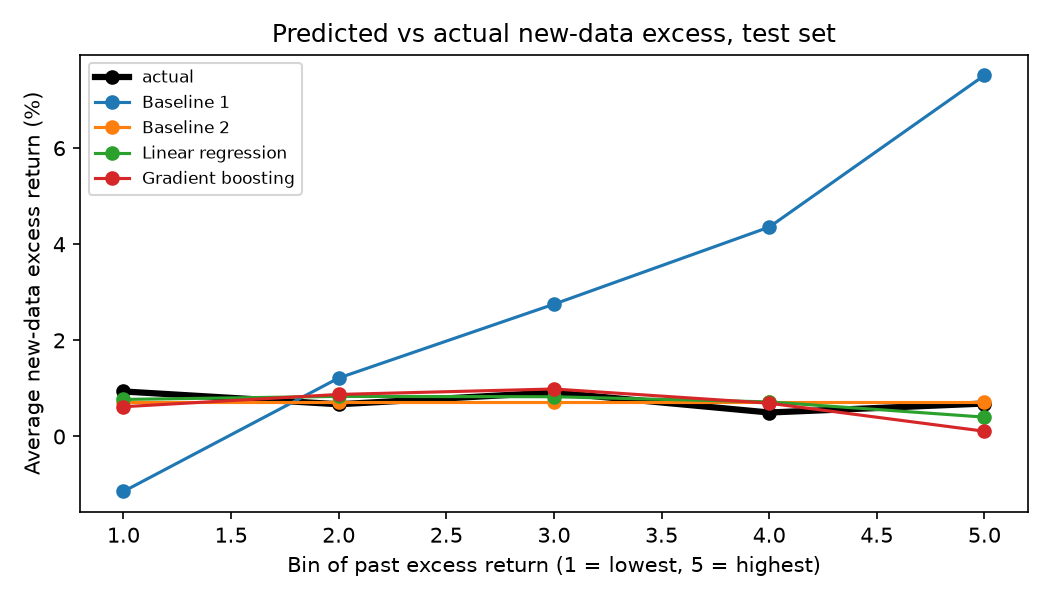
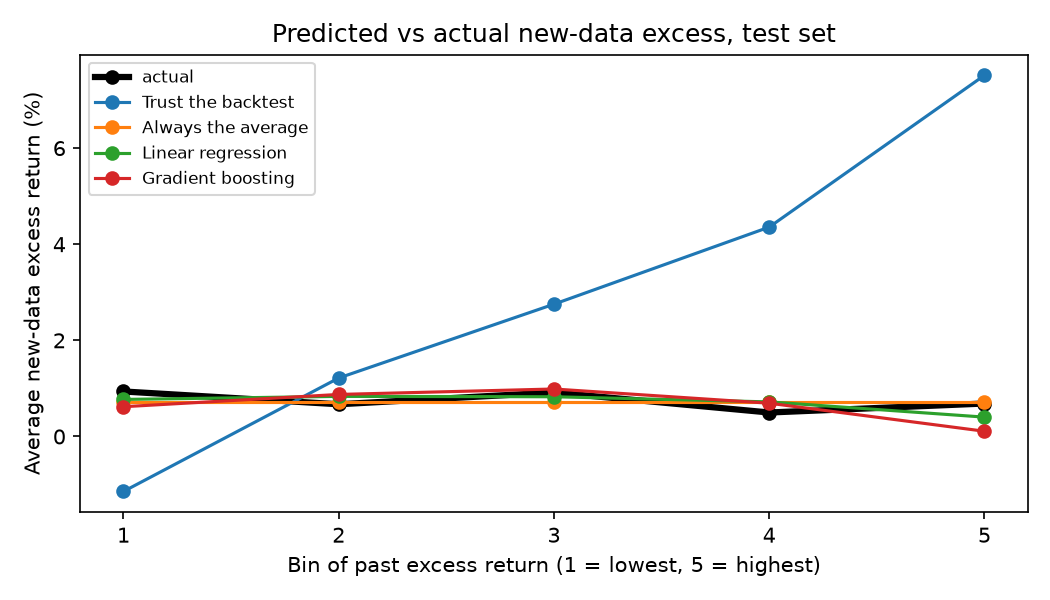
Add Gradio demo and polish charts

diff --git a/src/app.py b/src/app.py
@@ -1,0 +1,142 @@
+"""Strategy Reality Check: a small local demo. Run with:  python src/app.py
+
+Pick a historical window (15 real years: 10 'past' + 5 'new'), a momentum strategy, and how many
+strategies you tried before picking it. The app shows how it did in the past, what 'winners like
+yours' did afterwards in simulated no-skill markets, and (on request) what really happened next.
+"""
+import numpy as np
+import pandas as pd
+import matplotlib
+matplotlib.use("Agg")  # draw charts without opening a window
+import matplotlib.pyplot as plt
+import gradio as gr
+from sklearn.linear_model import LinearRegression
+from backtest import SECTORS, monthly_returns, backtest        # same backtest as everywhere else
+from simulate import momentum, excess_and_te, run_strategies, N_PAST   # same strategy + excess definitions
+
+FEATURES = ["K", "past_excess", "past_tracking_error", "past_excess_over_te", "L", "top_k"]
+DISCLAIMER = ("*Prototype, not financial advice. Simulated markets reshuffle real 2000-2020 months; "
+              "results on real and simulated data are shown separately.*")
+WINDOW, STEP = 180, 12    # each window = 180 months (120 past + 60 new); windows are 12 months apart
+
+# --- Start-up: load data, build the 11 real windows, fit the model once --------------------------
+prices = pd.read_csv("data/processed/prices.csv", index_col=0, parse_dates=True)
+real = monthly_returns(prices).loc[:"2025-12-31"].dropna()     # real months, Feb 2000 - Dec 2025
+
+# Same windows as rolling_real.py: the last one ends in Dec 2025, then step back 12 months at a time.
+starts = list(range(len(real) - WINDOW, -1, -STEP))[::-1]       # oldest window first
+WINDOWS = {}
+for s in starts:
+    d = real.index[s:s + WINDOW]                                 # the 180 month-end dates of this window
+    label = f"Past {d[0].year}-{d[N_PAST - 1].year}, new {d[N_PAST].year}-{d[-1].year}"
+    market = real.iloc[s:s + WINDOW].reset_index(drop=True)      # months numbered 0..179, real order
+    # Run all 20 strategies once per window (used by the 'best of all 20' button).
+    WINDOWS[label] = dict(dates=d, market=market, results=run_strategies(market))
+DEFAULT_WINDOW = next(iter(WINDOWS))                              # 'Past 2001-2010, new 2011-2015'
+
+# Simulated no-skill winners. The linear model is fitted on ALL of them (never on real data).
+sim = pd.read_csv("data/processed/sim_dataset.csv")
+model = LinearRegression().fit(sim[FEATURES], sim["new_excess"])
+
+
+def analyse(label, L, k, K):
+    """Everything we can say about one strategy in one window. Decisions use only past months."""
+    w = WINDOWS[label]
+    spy = w["market"]["SPY"]
+    r = backtest(w["market"][SECTORS], momentum(L, k))          # strategy monthly returns (no look-ahead)
+    past_ex, past_te = excess_and_te(r.loc[:N_PAST - 1], spy)   # past excess vs SPY + tracking error
+    new_ex, _ = excess_and_te(r.loc[N_PAST:], spy)              # real 'new' excess (hidden until reveal)
+
+    # Simulated winners with the same K and a similar past excess (within 1 point; widen to 2 if < 30).
+    tol, widened = 0.01, False
+    similar = sim[(sim["K"] == K) & ((sim["past_excess"] - past_ex).abs() <= tol)]
+    if len(similar) < 30:
+        tol, widened = 0.02, True
+        similar = sim[(sim["K"] == K) & ((sim["past_excess"] - past_ex).abs() <= tol)]
+
+    # The model's estimate of this strategy's new-data excess, from past-only information.
+    row = pd.DataFrame([[K, past_ex, past_te, past_ex / past_te, L, k]], columns=FEATURES)
+    return dict(r=r, past_ex=past_ex, new_ex=new_ex, similar=similar, widened=widened, tol=tol,
+                estimate=float(model.predict(row)[0]))
+
+
+def chart(label, a, reveal):
+    """Growth of $1 in the strategy vs SPY. Past only, or the whole 15 years after the reveal."""
+    w = WINDOWS[label]
+    r = a["r"] if reveal else a["r"].loc[:N_PAST - 1]
+    x = w["dates"][r.index]                                       # turn month numbers back into dates
+    fig, ax = plt.subplots(figsize=(7, 4))
+    ax.plot(x, (1 + r).cumprod(), label="Your strategy")
+    ax.plot(x, (1 + w["market"]["SPY"].loc[r.index]).cumprod(), label="SPY (buy and hold)")
+    years = label.replace("Past ", "").split(", new ")            # e.g. ['2001-2010', '2011-2015']
+    if reveal:
+        ax.axvline(w["dates"][N_PAST], color="gray", ls="--")
+        ax.text(w["dates"][N_PAST], ax.get_ylim()[1] * 0.97, f" {years[1]} (revealed)", va="top", fontsize=8)
+    ax.set_ylabel("Growth of $1")
+    ax.set_title(f"Backtest {years[0]}" + (f" + what happened {years[1]}" if reveal else ""))
+    ax.legend()
+    fig.tight_layout()
+    plt.close(fig)
+    return fig
+
+
+def run(label, L, k, K, reveal=False):
+    """Build the chart and the text for the chosen window and strategy."""
+    a = analyse(label, int(L), int(k), int(K))
+    X, s = a["past_ex"], a["similar"]
+    past_years, new_years = label.replace("Past ", "").split(", new ")
+    lines = [f"**Past ({past_years}): {X:+.1%} a year vs SPY.**",
+             f"If you trusted the backtest, you would expect: **{X:+.1%} a year vs SPY**."]
+    lines.append(f"**Matches found: {len(s)}** simulated winners with the same K={K} and a past excess "
+                 f"within {a['tol']*100:.0f} point{'s' if a['tol'] > 0.01 else ''} of yours.")
+    if len(s):
+        Y = s["new_excess"].mean()
+        lo, hi = s["new_excess"].quantile([0.1, 0.9])
+        note = ""
+        if a["widened"]:   # say so when we had to widen the match, and when it is still thin
+            note = " I widened the match from 1 to 2 points because fewer than 30 cases were within 1 point."
+            if len(s) < 30:
+                note += f" Only {len(s)} cases even then, so treat this with caution."
+        lines.append(f"In simulated markets with no skill, winners like yours averaged **{Y:+.1%}** "
+                     f"afterwards (10th-90th percentile: {lo:+.1%} to {hi:+.1%}).{note}")
+        verdict = (f"In no-skill simulated markets, about **{1 - Y / X:.0%}** of an edge like this usually disappears. " if X > 0
+                   else "The past excess is not positive, so there is no edge to lose. ")
+        verdict += "The past number is a poor guide."
+    else:
+        verdict = "The past number is a poor guide."
+    lines.append(f"The model's estimate for {new_years}: **{a['estimate']:+.1%}** a year vs SPY.")
+    lines.append(f"**Verdict:** {verdict}")
+    if reveal:
+        lines.append(f"**What actually happened in {new_years} (real data): {a['new_ex']:+.1%} a year vs SPY.**")
+    return chart(label, a, reveal), "\n\n".join(lines)
+
+
+def best_of_all(label):
+    """Look only at the PAST of this window and return the strategy with the highest past excess, with K=20."""
+    results = WINDOWS[label]["results"]
+    L, k = max(results, key=lambda key: results[key][0][0])      # results[key][0][0] = past excess
+    return str(L), str(k), "20"
+
+
+# --- The web page --------------------------------------------------------------------------------
+with gr.Blocks(title="Strategy Reality Check") as demo:
+    gr.Markdown("# Strategy Reality Check\nWould a strategy that beat SPY in the past keep beating it?")
+    gr.Markdown(DISCLAIMER)
+    window = gr.Dropdown(list(WINDOWS), value=DEFAULT_WINDOW, label="Historical window")
+    gr.Markdown("<small>Windows whose new years end in 2020 or earlier use months that the simulation also "
+                "reshuffled. Only the last window (Past 2011-2020, new 2021-2025) is fully unseen by the "
+                "simulation.</small>")
+    with gr.Row():
+        L = gr.Dropdown(["1", "3", "6", "12"], value="12", label="Lookback L (months)")
+        k = gr.Dropdown(["1", "2", "3", "4", "5"], value="3", label="Top-k (how many sector ETFs to hold)")
+        K = gr.Dropdown(["1", "3", "5", "10", "20"], value="20", label="K: how many strategies did you try before picking this one?")
+    best = gr.Button("Pick the best of all 20 strategies for this window")
+    check = gr.Button("Check my strategy", variant="primary")
+    plot, text = gr.Plot(label="Growth of $1"), gr.Markdown()
+    reveal = gr.Button("Reveal what actually happened in the new years")
+    best.click(best_of_all, [window], [L, k, K], api_name="best")                                  # fills L, top-k, K=20
+    check.click(lambda w, L, k, K: run(w, L, k, K, False), [window, L, k, K], [plot, text], api_name="check")   # past only
+    reveal.click(lambda w, L, k, K: run(w, L, k, K, True), [window, L, k, K], [plot, text], api_name="reveal") # adds new years
+
+if __name__ == "__main__":
+    demo.launch()   # local only (127.0.0.1), no hosting

diff --git a/src/real_test.py b/src/real_test.py
@@ -81,7 +81,10 @@ plt.figure(figsize=(6, 5))
 plt.scatter(tab["past_excess"] * 100, tab["new_excess"] * 100, label="20 strategies")
 lim = np.array([tab[["past_excess", "new_excess"]].min().min(), tab[["past_excess", "new_excess"]].max().max()]) * 100
 plt.plot(lim, lim, "k--", label="'Trust the backtest' (new = past)")
-plt.axhline(sim_avg * 100, color="red", label=f"Simulated average ({sim_avg:.2%})")
+plt.axhline(sim_avg * 100, color="red", label=f"Average in simulated markets ({sim_avg:.2%})")
+w20 = tab.loc[tab["past_excess"].idxmax()]   # the K=20 winner = best past excess of all 20
+plt.annotate(f"K=20 winner (L={int(w20.L)}, top_k={int(w20.top_k)})", (w20.past_excess * 100, w20.new_excess * 100),
+             xytext=(12, -22), textcoords="offset points", fontsize=8, arrowprops=dict(arrowstyle="-", color="gray"))
 plt.xlabel("Past excess vs SPY, 2011-2020 (% per year)")
 plt.ylabel("New-data excess vs SPY, 2021-2025 (% per year)")
 plt.title("Real data: past vs new excess return")

diff --git a/src/train_model.py b/src/train_model.py
@@ -86,8 +86,10 @@ print((calib * 100).round(2).astype(str) + "%")
 # 8. Simple chart: a perfectly calibrated method would lie on the 'actual' line.
 plt.figure(figsize=(7, 4))
 for col in calib.columns:
+    label = {"Baseline 1": "Trust the backtest", "Baseline 2": "Always the average"}.get(col, col)
     plt.plot(calib.index.astype(int), calib[col] * 100, marker="o", lw=3 if col == "actual" else 1.5,
-             color="black" if col == "actual" else None, label=col)
+             color="black" if col == "actual" else None, label=label)
+plt.xticks([1, 2, 3, 4, 5])   # whole-number bins only
 plt.xlabel("Bin of past excess return (1 = lowest, 5 = highest)")
 plt.ylabel("Average new-data excess return (%)")
 plt.title("Predicted vs actual new-data excess, test set")

diff --git a/src/rolling_real.py b/src/rolling_real.py
@@ -70,7 +70,9 @@ plt.figure(figsize=(6, 5))
 x, y = w20["avg_past_excess"] * 100, w20["avg_new_excess"] * 100
 plt.scatter(x, y)
 for (_, r), xi, yi in zip(w20.iterrows(), x, y):
-    plt.annotate(r["end"][:4], (xi, yi), fontsize=7, xytext=(3, 3), textcoords="offset points")  # window end year
+    # Label = window end year. 2023, 2024 and 2025 sit almost on top of each other, so push them apart.
+    offset = {"2023": (6, -10), "2024": (-6, 8), "2025": (-30, -12)}.get(r["end"][:4], (3, 3))
+    plt.annotate(r["end"][:4], (xi, yi), fontsize=7, xytext=offset, textcoords="offset points")
 lim = [min(x.min(), y.min()), max(x.max(), y.max())]
 plt.plot(lim, lim, "k--", label="45-degree line (new = past)")
 plt.xlabel("K=20 winner: past excess vs SPY (% per year)")

diff --git a/AI_USAGE.md b/AI_USAGE.md
@@ -12,3 +12,7 @@ Track every time you use an AI tool (Claude Code, ChatGPT, GitHub Copilot, etc.)
 | 2026-11-15 | Claude Code: wrote src/simulate.py (shuffled real months to build simulated markets, 20 momentum strategies, best-of-K winners) | Run and checked by me: TO CONFIRM |
 | 2026-11-15 | Claude Code: wrote src/real_test.py (one real-data test, 2011-2020 past vs 2021-2025 new, models trained on simulated data only) and restructured src/simulate.py into importable functions (output unchanged) | Run and checked by me: TO CONFIRM |
 | 2026-11-15 | Claude Code: wrote src/rolling_real.py (descriptive rolling 15-year real-data windows, K=20 winner past vs new excess, no model) | Run and checked by me: TO CONFIRM |
+| 2026-11-15 | Claude Code: polished chart labels and layout only (calibration.png, real_test.png, rolling_real.png) in train_model.py, real_test.py and rolling_real.py; regenerated the charts | Run and checked by me: TO CONFIRM |
+| 2026-11-15 | Claude Code: wrote src/app.py (local Gradio demo 'Strategy Reality Check') and added gradio to requirements.txt | Run and checked by me: TO CONFIRM |
+| 2026-11-15 | Claude Code: improved src/app.py (dropdown of the 11 real historical windows from rolling_real.py, 'best of all 20' button that fills L, top-k and K=20, matches-found count) | Run and checked by me: TO CONFIRM |
+| 2026-11-15 | Claude Code: small changes to src/app.py (note under the Historical window dropdown about months the simulation also reshuffled; reworded the verdict line) | Run and checked by me: TO CONFIRM |
